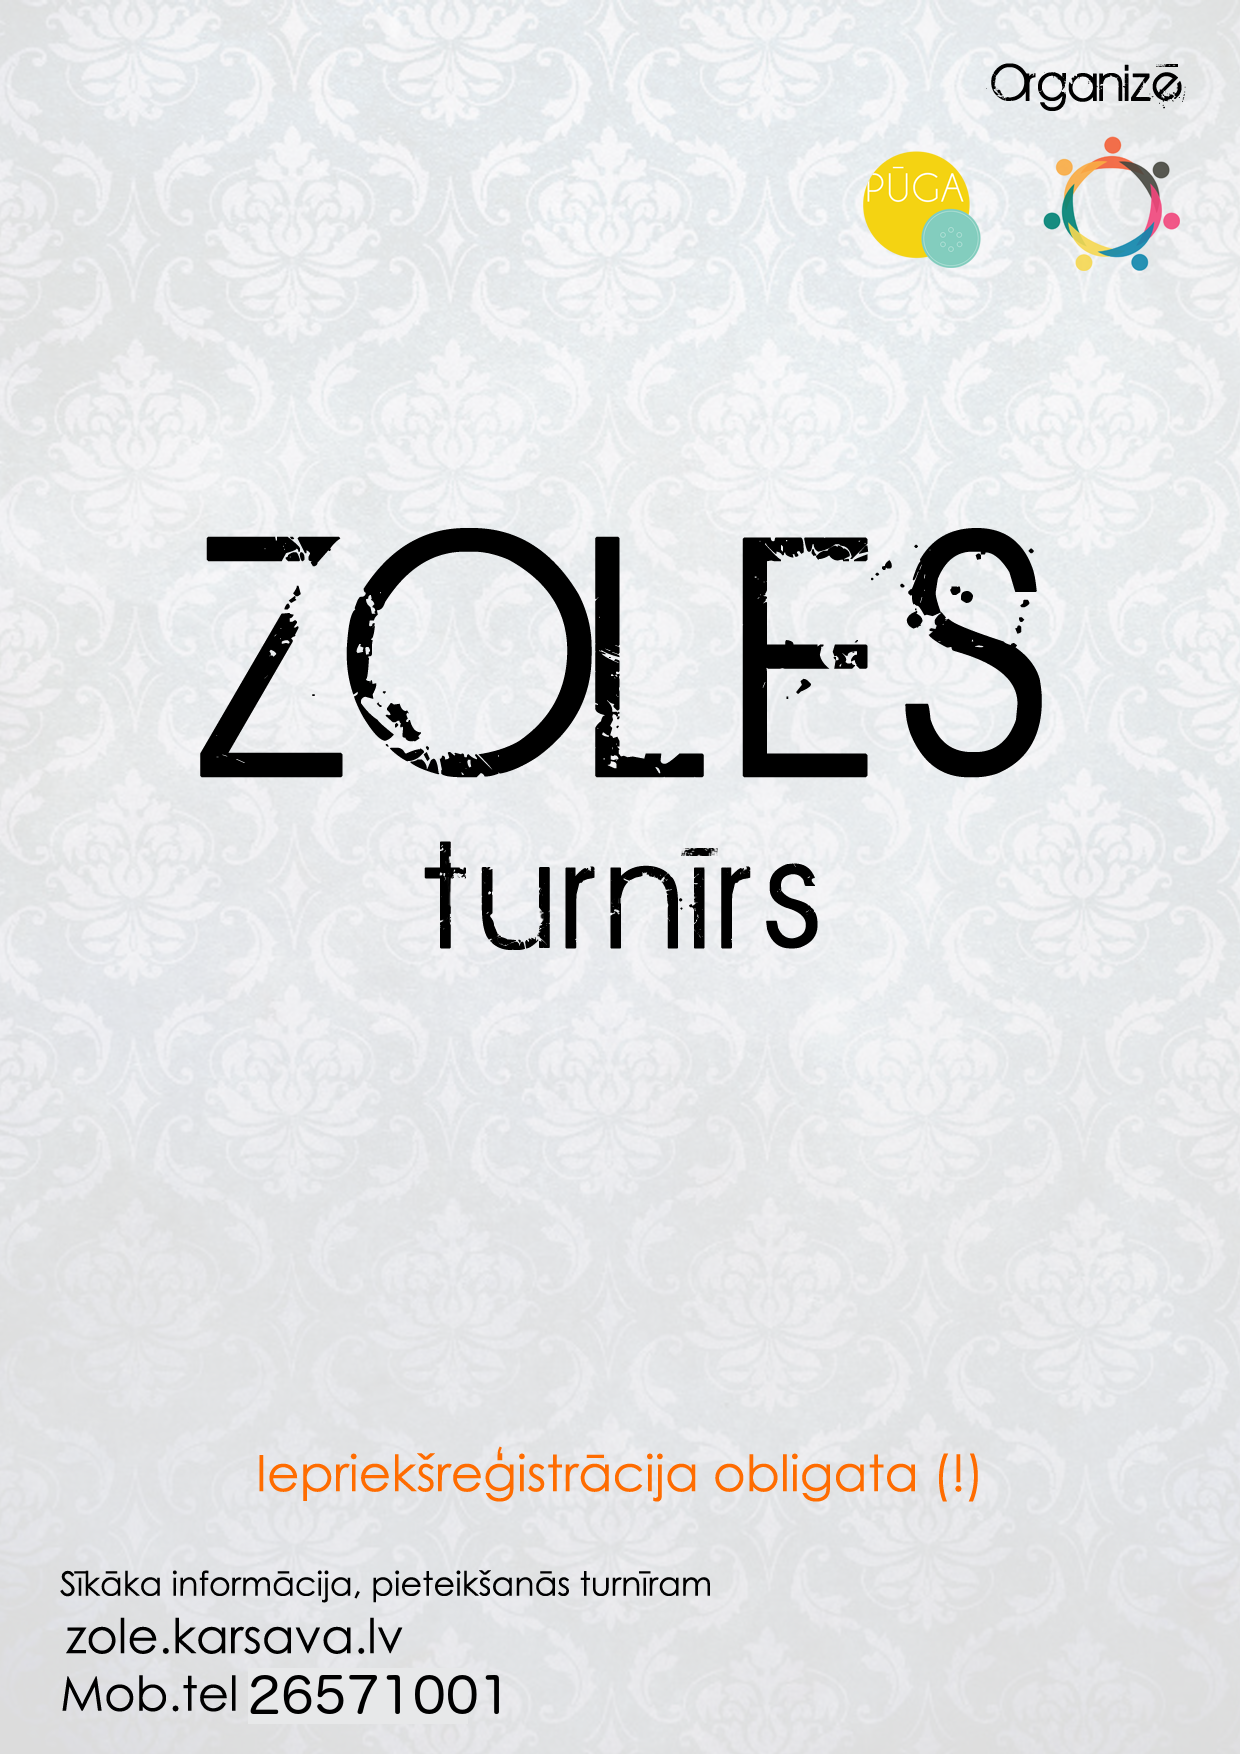
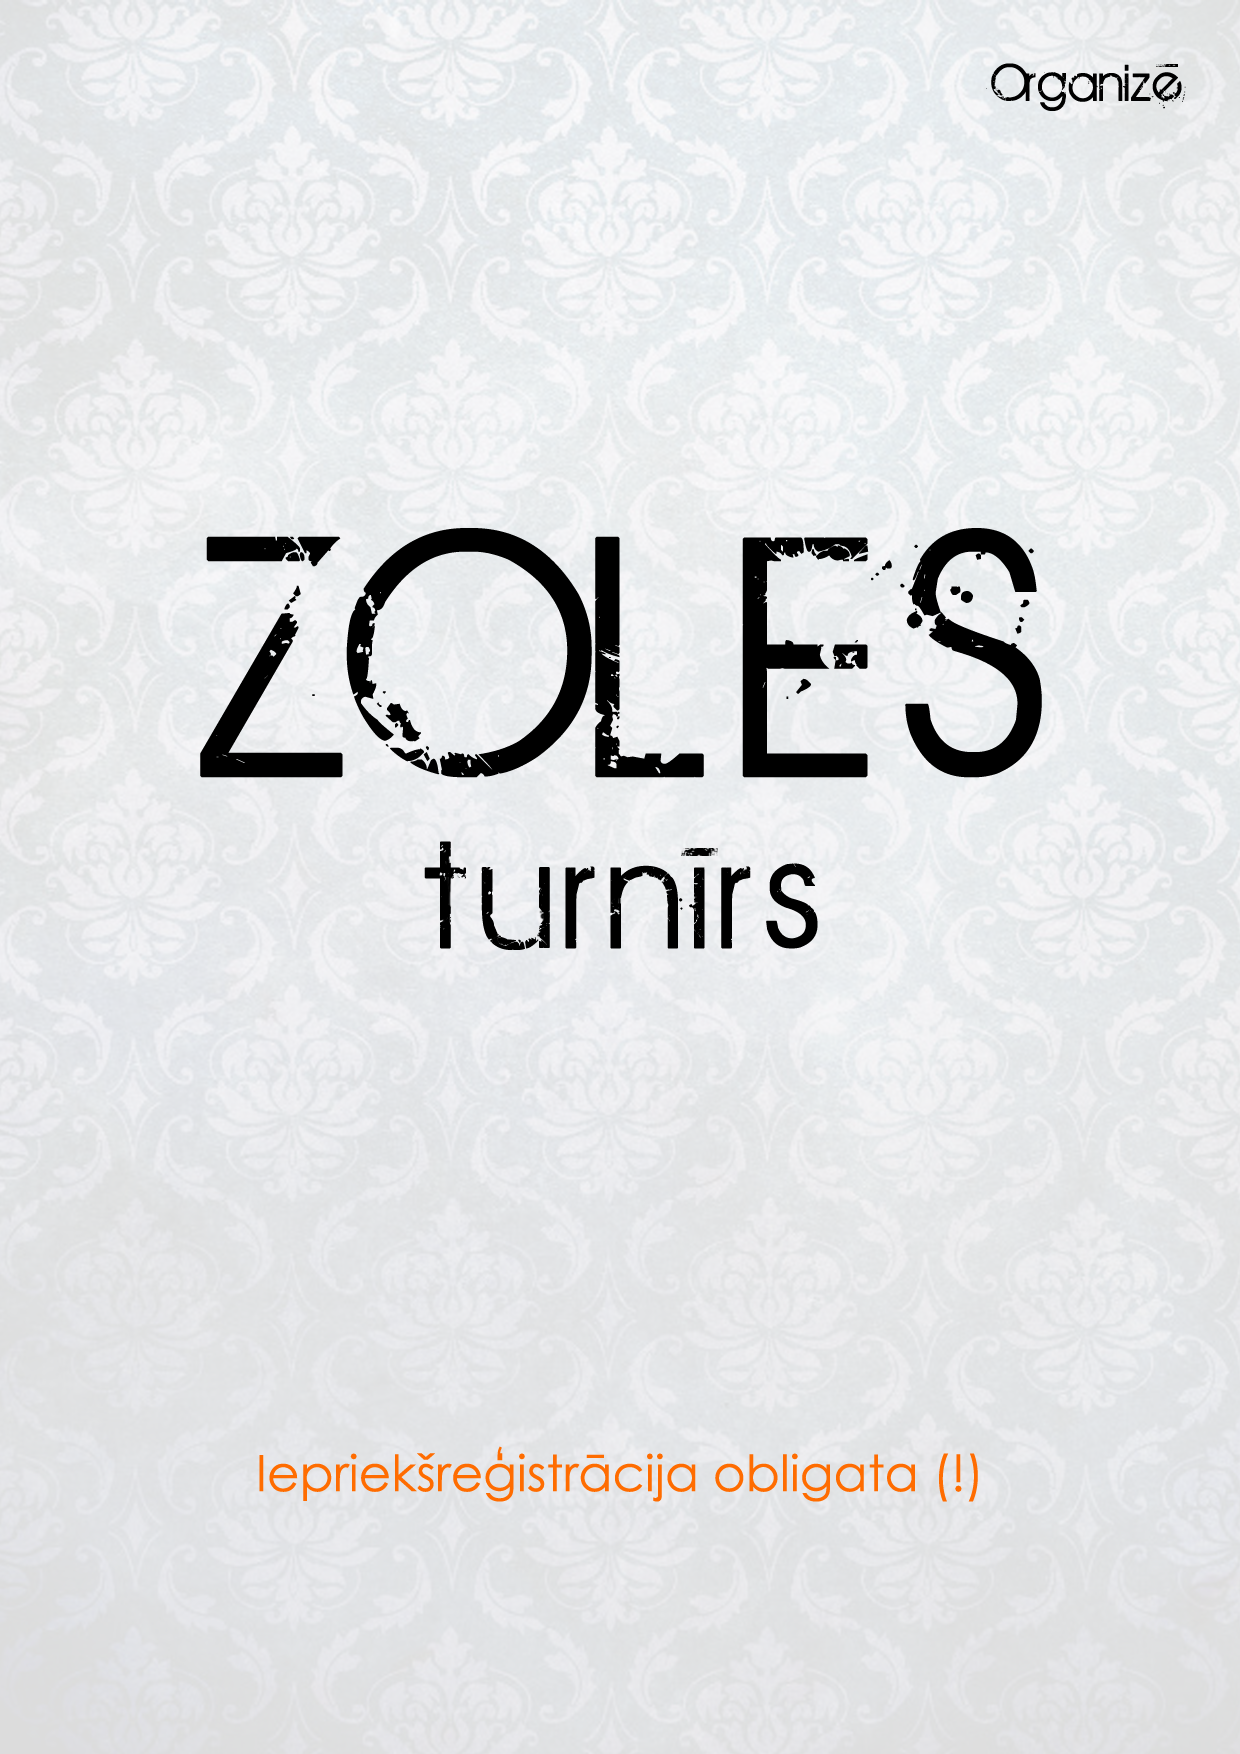
poster new params added

Changed region(s): [[0.0613, 0.8928, 0.5823, 0.9852], [0.8274, 0.0616, 0.95, 0.1539], [0.6742, 0.0616, 0.7968, 0.1539]]

diff --git a/d/javascripts/poster.js b/d/javascripts/poster.js
@@ -8,7 +8,7 @@
     var render = function () {
         var stage = new PIXI.Stage(0xFFFFFF);
         var poster_type = $('input[name="poster-type"]:checked').val();
-        var poster_out = poster === 'out';
+        var poster_out = poster_type === 'out';
         (function () {
             mid = new PIXI.Sprite(PIXI.Texture.fromImage('d/images/poster-back-'+poster_type+'.png?'));
             mid.position.x = 0;
@@ -28,12 +28,22 @@
             }
             stage.addChild(richText);
         };
+        var img = function (src, position) {
+            img = new PIXI.Sprite(PIXI.Texture.fromImage(src));
+            img.position.x = position[0];
+            img.position.y = position[1];
+            stage.addChild(img);
+        };
 
         t(v('day'), 80, '#b5b5b5', [60, 50]);
         t(v('when'), 140, '#ff6c00', [50, 120]);
         t(v('when-time'), 90, poster_out ? '#000000' : '#656565', [60, 250]);
         t(v('which'), 150, '#ff6c00', [620, 980], true);
         t(v('where'), 170, '#ff6c00', [620, 1150], true);
+        t(v('submit'), 35, poster_out ? '#000000' : '#ffffff', [60, 1560]);
+        t(v('submit-web'), 55, poster_out ? '#000000' : '#ffffff', [60, 1600]);
+        t(v('submit-mob'), 55, poster_out ? '#000000' : '#ffffff', [60, 1660]);
+        img(v('organize'), [960, 130]);
 
         renderer.render(stage);
     };

diff --git a/poster.html b/poster.html
@@ -17,6 +17,10 @@
             <input id="poster-when-time" type="text" value="plkst. 09:45" /><br />
             <input id="poster-which" type="text" value="1. posms" /><br />
             <input id="poster-where" type="text" value="Kārsava KN" /><br />
+            <input id="poster-submit" type="text" value="Sīkāka informācija, pieteikšanās turnīram" /><br />
+            <input id="poster-submit-web" type="text" value="zole.karsava.lv" /><br />
+            <input id="poster-submit-mob" type="text" value="Mob. tel 26571001" /><br />
+            <input id="poster-organize" type="text" value="d/images/sk-kuorsova.png" /><br />
             <button>Uzzīmēt</button>
         </form>
         <div id="poster"></div>
